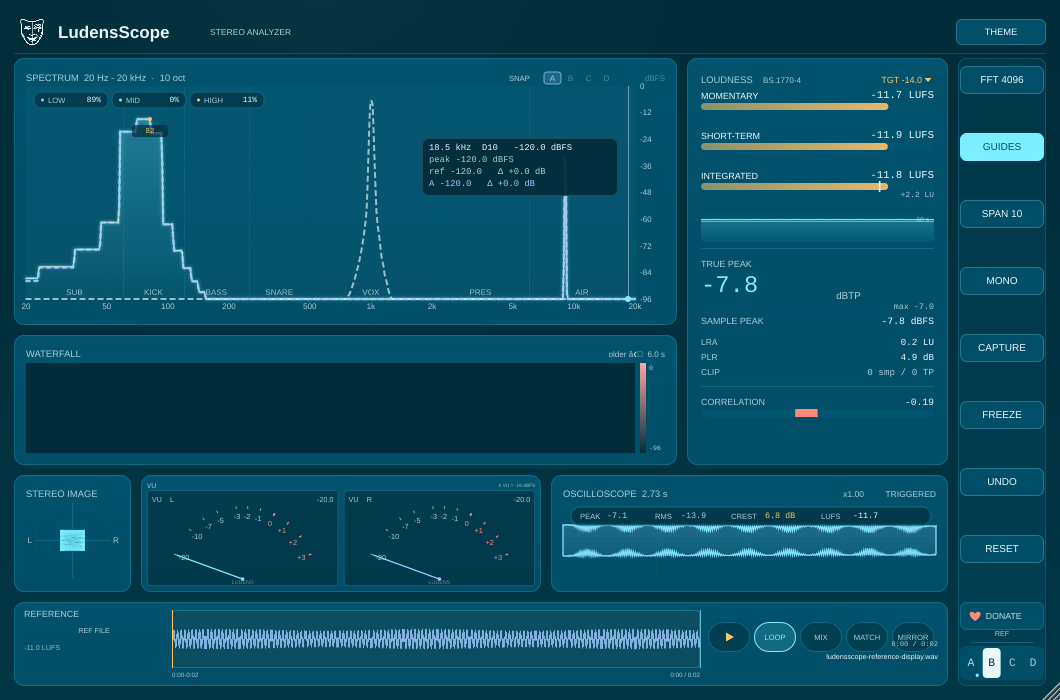
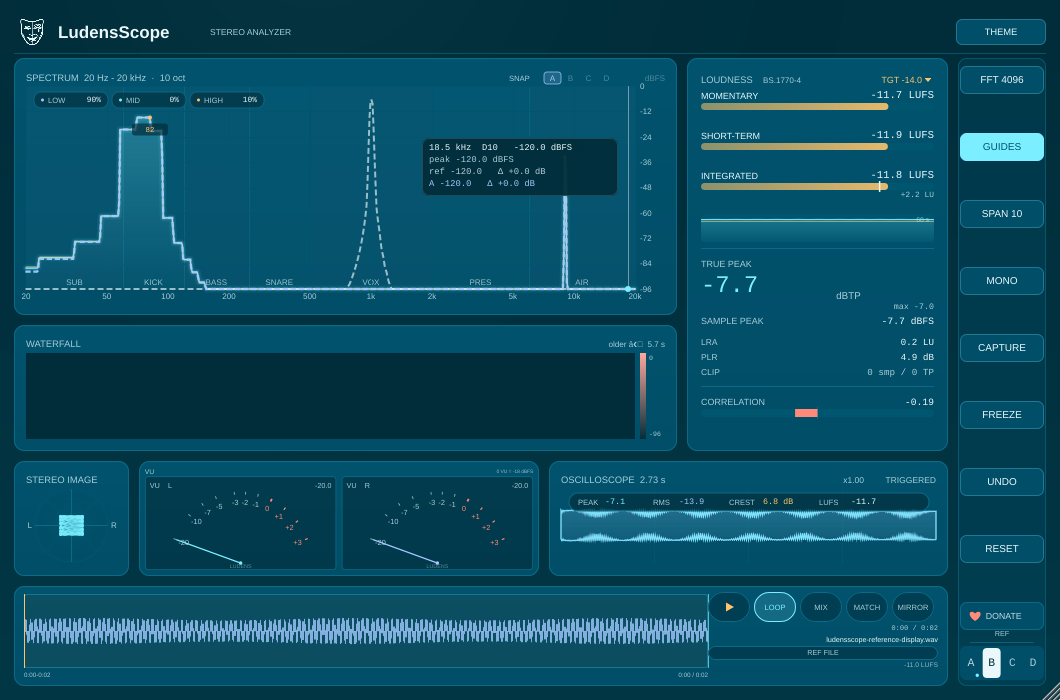
ui: reference waveform from the left edge, controls under the transport
- the reference waveform now starts at the left edge of the strip and
  runs up to the right controls column
- the left block is gone: REF FILE, LUFS, file name and the REFERENCE
  caption are stacked under the play/LOOP/MIX/MATCH/MIRROR pills,
  right-aligned and scaled with the strip height
- strip height raised to 100 px so the stack fits without crowding
- tests 3/3; snapshot regenerated

diff --git a/Source/ui/ReferenceStrip.h b/Source/ui/ReferenceStrip.h
@@ -75,17 +75,11 @@ private:
 
 inline void ReferenceStrip::resized()
 {
-    const float s = juce::jlimit (0.8f, 1.4f, (float) getHeight() / 84.0f);
+    const float s = juce::jlimit (0.8f, 1.4f, (float) getHeight() / 100.0f);
     auto b = getLocalBounds().toFloat().reduced (10.0f * s, 6.0f * s);
-    auto left = b.removeFromLeft (140.0f * s);
     auto right = b.removeFromRight (230.0f * s);
-    auto mid = b.reduced (8.0f * s, 0.0f);
 
-    left.removeFromTop (12.0f * s);
-    refFileArea = left.removeFromTop (22.0f * s);
-    nameArea = right.removeFromTop (14.0f * s);
-
-    waveArea = mid.withTrimmedTop (2.0f * s).withTrimmedBottom (12.0f * s);
+    waveArea = b.withTrimmedTop (2.0f * s).withTrimmedBottom (12.0f * s);
 
     auto row = right.removeFromTop (30.0f * s);
     const float btnW = 42.0f * s;
@@ -101,8 +95,9 @@ inline void ReferenceStrip::resized()
     row.removeFromLeft (gap);
     mirrorArea = row.removeFromLeft (btnW);
 
-    right.removeFromTop (12.0f * s); // time row
-    nameArea = right.removeFromTop (14.0f * s);
+    right.removeFromTop (12.0f * s); // time
+    right.removeFromTop (12.0f * s); // name
+    refFileArea = right.removeFromTop (14.0f * s);
 }
 
 inline void ReferenceStrip::paint (juce::Graphics& g)
@@ -110,27 +105,9 @@ inline void ReferenceStrip::paint (juce::Graphics& g)
     const auto b = getLocalBounds().toFloat();
     theme::drawPanel (g, b);
 
-    auto area = b.reduced (10.0f, 6.0f);
-    auto left = area.removeFromLeft (210.0f);
-    auto right = area.removeFromRight (190.0f);
-    auto mid = area.reduced (10.0f, 0.0f);
-
-    auto caption = left.removeFromTop (12.0f);
-    g.setFont (theme::detailFont (10.0f));
-    g.setColour (theme::textDim);
-    g.drawText ("REFERENCE", caption, juce::Justification::centredLeft);
-
-    g.setFont (theme::labelFont (8.0f));
-    g.setColour (theme::textDim);
-    g.drawText ("REF FILE", refFileArea, juce::Justification::centred);
-
-    left.removeFromTop (22.0f); // ref-file row, drawn from refFileArea above
-    g.setFont (theme::labelFont (8.0f));
-    g.setColour (theme::textDim.withAlpha (0.85f));
-    g.drawText (state.lufs > -99.0f
-                    ? juce::String (state.lufs, 1) + " LUFS"
-                    : "-inf LUFS",
-                left.removeFromTop (12.0f), juce::Justification::centredLeft);
+    const float s = juce::jlimit (0.8f, 1.4f, (float) getHeight() / 100.0f);
+    auto area = b.reduced (10.0f * s, 6.0f * s);
+    auto right = area.removeFromRight (230.0f * s);
 
     // Waveform.
     g.setColour (theme::bg.withAlpha (0.55f));
@@ -234,18 +211,39 @@ inline void ReferenceStrip::paint (juce::Graphics& g)
     pill (matchArea, state.match, "MATCH");
     pill (mirrorArea, state.mirror, "MIRROR");
 
-    right.removeFromTop (30.0f); // transport row, drawn from the areas above
+    right.removeFromTop (30.0f * s); // transport row, drawn from the areas above
     g.setFont (theme::monoFont (8.0f));
     g.setColour (theme::textDim);
     g.drawText (state.duration > 0.0
                     ? formatTime (state.position) + " / " + formatTime (state.duration)
                     : "--:--",
-                right.removeFromTop (12.0f), juce::Justification::centredRight);
+                right.removeFromTop (12.0f * s), juce::Justification::centredRight);
 
     g.setFont (theme::labelFont (8.0f));
     g.setColour (state.name.isNotEmpty() ? theme::text : theme::textDim);
     g.drawText (state.name.isEmpty() ? "no reference" : state.name,
-                right.removeFromTop (14.0f), juce::Justification::centredRight, true);
+                right.removeFromTop (12.0f * s), juce::Justification::centredRight, true);
+
+    g.setColour (theme::bg.withAlpha (0.5f));
+    g.fillRoundedRectangle (refFileArea, refFileArea.getHeight() * 0.5f);
+    g.setColour (theme::panelLine);
+    g.drawRoundedRectangle (refFileArea.reduced (0.5f), refFileArea.getHeight() * 0.5f, 1.0f);
+    g.setFont (theme::labelFont (8.0f));
+    g.setColour (theme::textDim);
+    g.drawText ("REF FILE", refFileArea, juce::Justification::centred);
+
+    right.removeFromTop (14.0f * s);
+    g.setFont (theme::labelFont (7.5f));
+    g.setColour (theme::textDim.withAlpha (0.85f));
+    g.drawText (state.lufs > -99.0f
+                    ? juce::String (state.lufs, 1) + " LUFS"
+                    : "-inf LUFS",
+                right.removeFromTop (10.0f * s), juce::Justification::centredRight);
+
+    right.removeFromTop (10.0f * s);
+    g.setFont (theme::detailFont (9.0f));
+    g.setColour (theme::textDim.withAlpha (0.7f));
+    g.drawText ("REFERENCE", right.removeFromTop (10.0f * s), juce::Justification::centredRight);
 }
 
 inline void ReferenceStrip::mouseDown (const juce::MouseEvent& e)

diff --git a/Source/PluginEditor.cpp b/Source/PluginEditor.cpp
@@ -496,7 +496,7 @@ void LudensScopeEditor::resized()
                           refRowHeight);
 
     const int gap = juce::roundToInt (10.0f * uiScale);
-    const int stripHeight = juce::jlimit (64, 100, juce::roundToInt (84.0f * uiScale));
+    const int stripHeight = juce::jlimit (80, 120, juce::roundToInt (100.0f * uiScale));
     referenceStrip.setBounds (r.removeFromBottom (stripHeight));
     r.removeFromBottom (gap);
 
